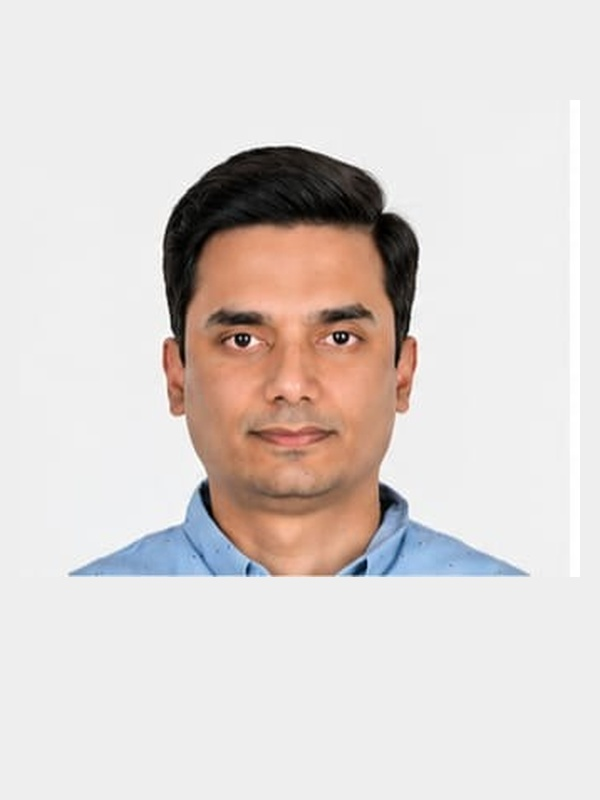
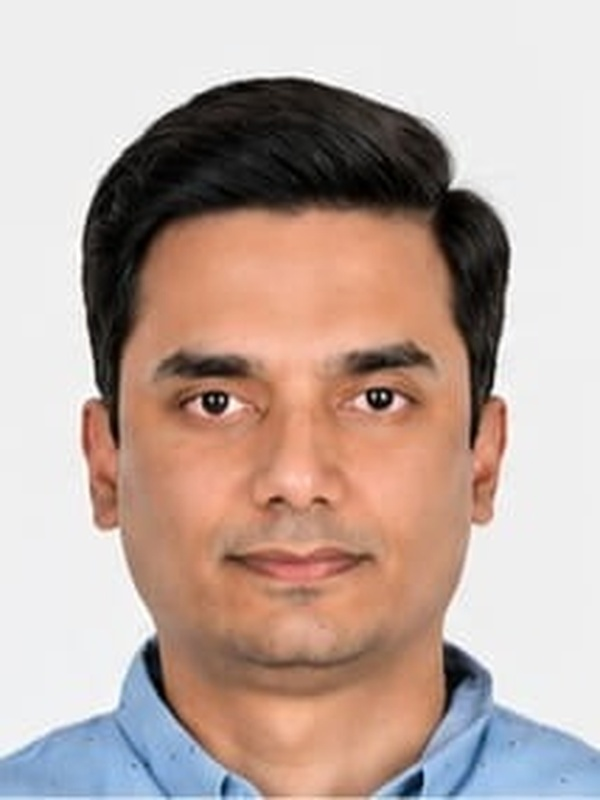
fix: Properly frame and crop Dr. Arjun Jawahar Sharma portrait to fill card naturally without borders

diff --git a/features/landing/doctors-preview.tsx b/features/landing/doctors-preview.tsx
@@ -40,7 +40,7 @@ export function DoctorsPreview() {
                     <img
                       src={doctor.avatarUrl}
                       alt={doctor.name}
-                      className="w-full h-full object-cover transform group-hover:scale-105 transition-transform duration-500 ease-out"
+                      className="w-full h-full object-cover object-top transform group-hover:scale-105 transition-transform duration-500 ease-out"
                     />
                   </div>
 

diff --git a/components/doctors/team-list.tsx b/components/doctors/team-list.tsx
@@ -29,7 +29,7 @@ export function TeamList() {
                   <img
                     src={doctor.avatarUrl}
                     alt={doctor.name}
-                    className="w-full h-full object-cover transform group-hover:scale-105 transition-transform duration-500 ease-out"
+                    className="w-full h-full object-cover object-top transform group-hover:scale-105 transition-transform duration-500 ease-out"
                   />
                 </div>
 

diff --git a/app/about/page.tsx b/app/about/page.tsx
@@ -128,7 +128,7 @@ export default function AboutPage() {
                   <img
                     src="/doctors/dr-arjun-jawahar-sharma.jpg"
                     alt="Dr. Arjun Jawahar Sharma - Chief Prosthodontist & Oral Implantologist"
-                    className="w-full h-full object-cover"
+                    className="w-full h-full object-cover object-top"
                   />
                 </div>
               </div>
